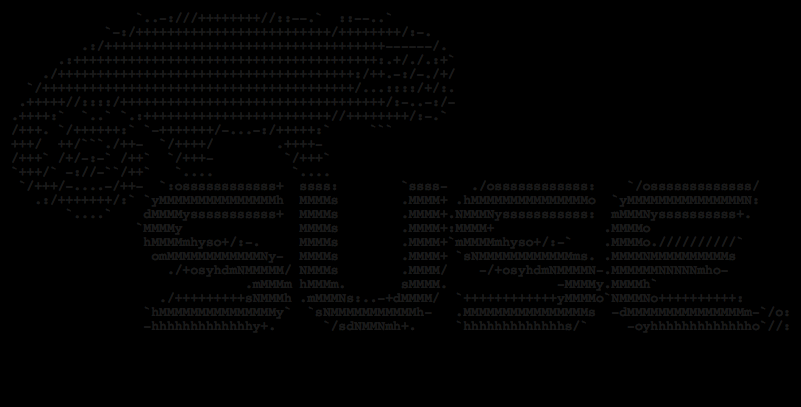
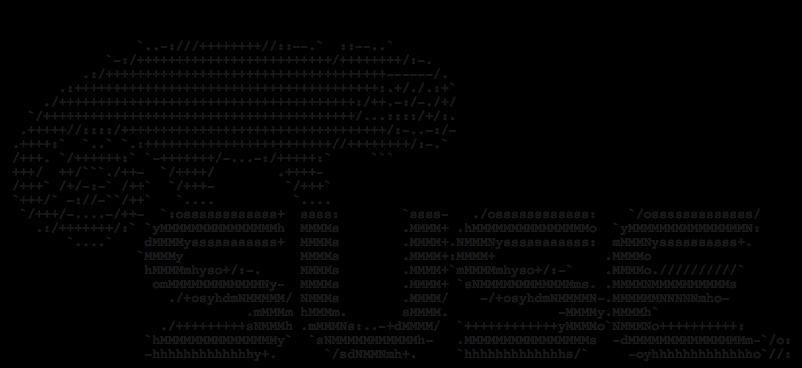
fix size of terminal

diff --git a/js/hackweek.js b/js/hackweek.js
@@ -142,7 +142,7 @@ $(function () {
       PS1:             "SUSEterm $",
       NOT_FOUND:       "Sorry me and my chameleon friends have never heard about CMD before :-(",
       WIDTH:           "80%",
-      HEIGHT:          "100%"
+      HEIGHT:          "500px"
   });
 });
 
